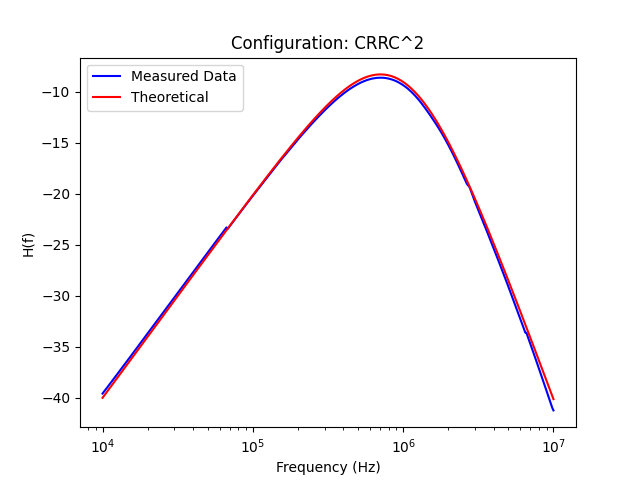
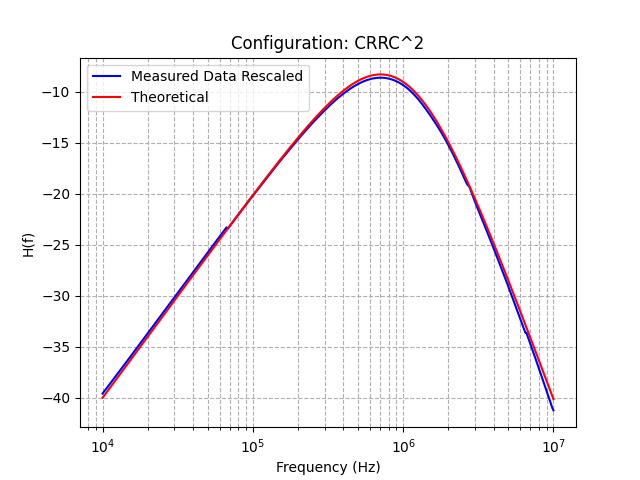
update

diff --git a/analiza1.py b/analiza1.py
@@ -8,6 +8,8 @@ def load_data(file_path):
     final_2d_float_array = data_cleaned_str.astype(float)
     return final_2d_float_array
 
+wzmacniacz = load_data("WOJCIK_26_11_2025/wzmacniacz.txt")
+
 fs = ["100k", "500k", "1M"]
 directory = "WOJCIK_26_11_2025"
 conf = ["CR", "CRRC", "CR^2RC", "CRRC^2", "CRRC^3"]
@@ -28,7 +30,7 @@ def A_CR_RC3_dB(u):
     return 20 * np.log10(A)
 conf_functions = {
     "CR": A_CR_dB,
-    "CRRC": A_CR_dB,
+    "CRRC": A_CR_RC_dB,
     "CR^2RC": A_CR2_RC_dB,
     "CRRC^2": A_CR_RC2_dB,
     "CRRC^3": A_CR_RC3_dB
@@ -44,8 +46,9 @@ for f in fs:
         u = 2 * np.pi * data[:, 0] * tau
         A_values = c_f(u)
         plt.figure()
-        plt.plot(data[:,0],data[:,1], label="Measured Data", color='blue')
+        plt.plot(data[:,0],data[:,1], label="Measured Data Rescaled", color='blue')
         plt.plot(data[:,0], A_values, label=f"Theoretical", color='red')
+        
         plt.xscale('log')
         plt.title(f"Configuration: {c}")
         plt.xlabel("Frequency (Hz)")
@@ -53,4 +56,4 @@ for f in fs:
         plt.legend()
         plt.grid(True, which="both", ls="--")
         plt.savefig(f"plots/{c}{f}.png")
-        
+        plt.close()
